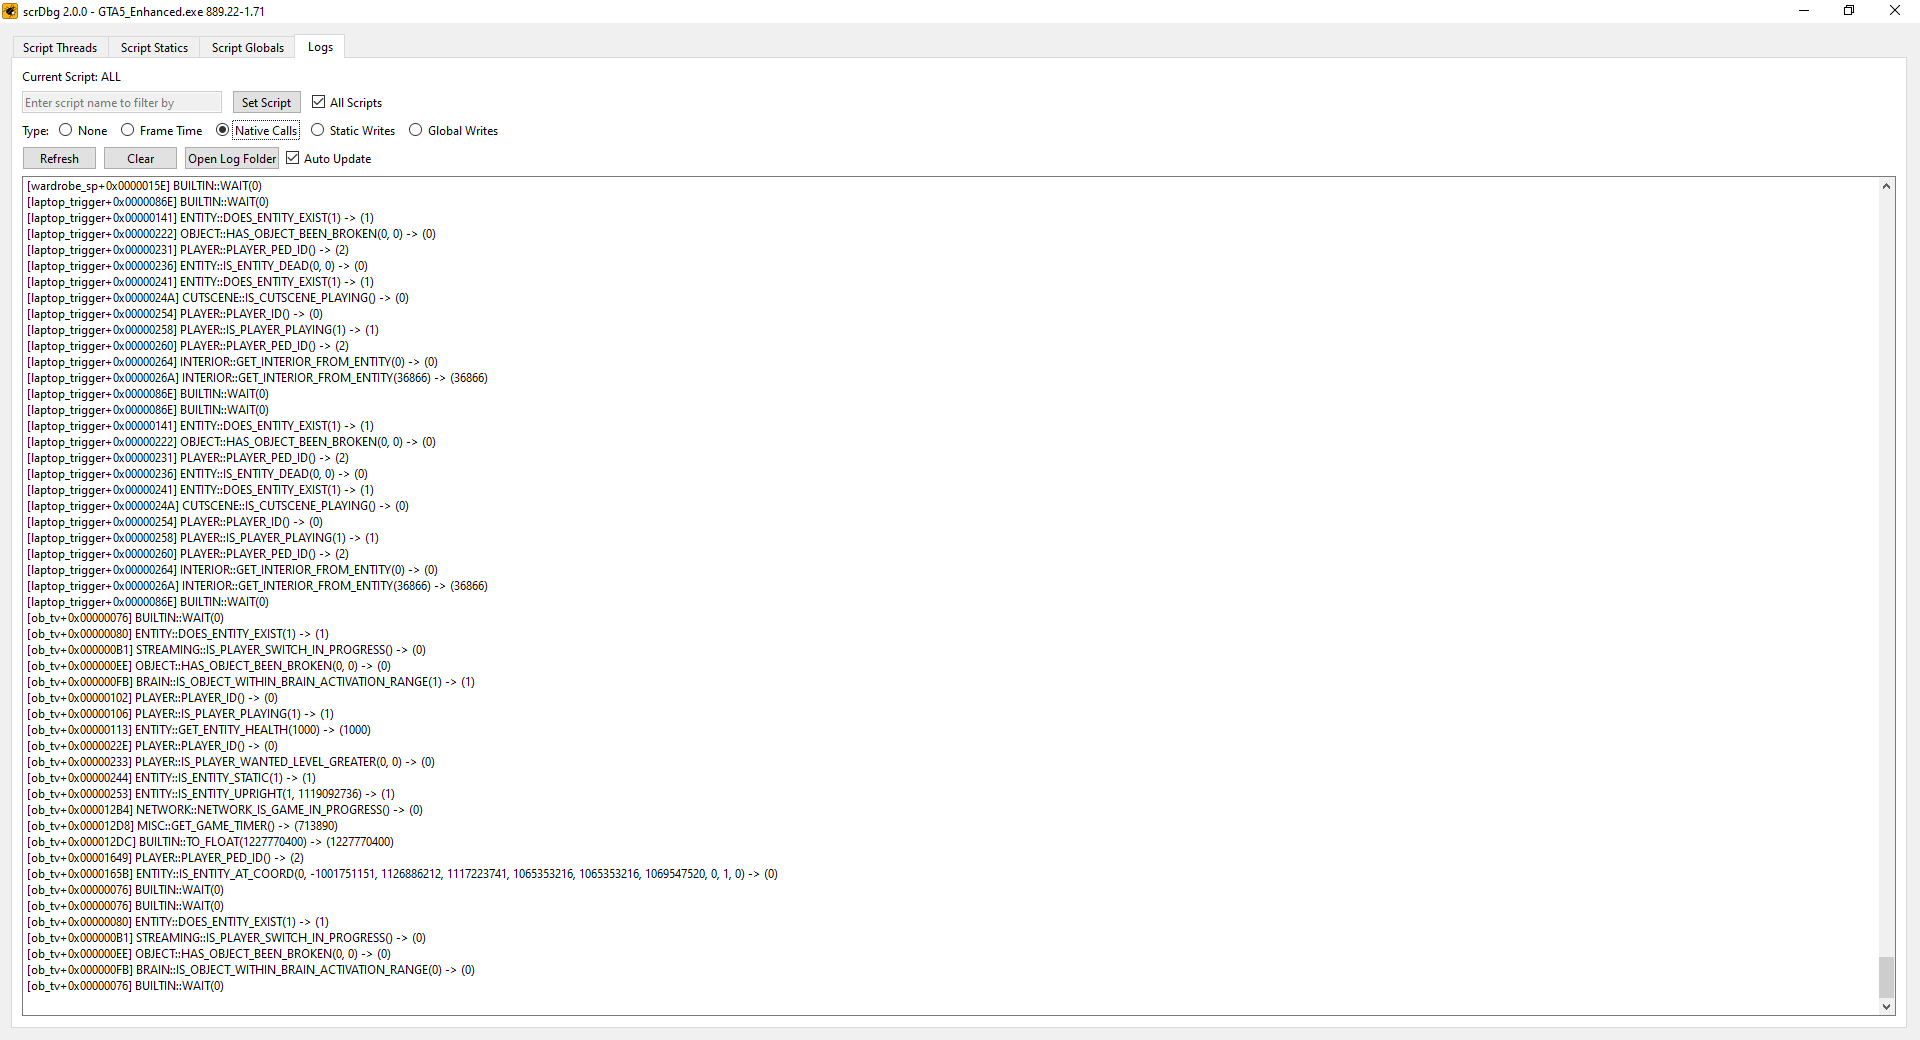
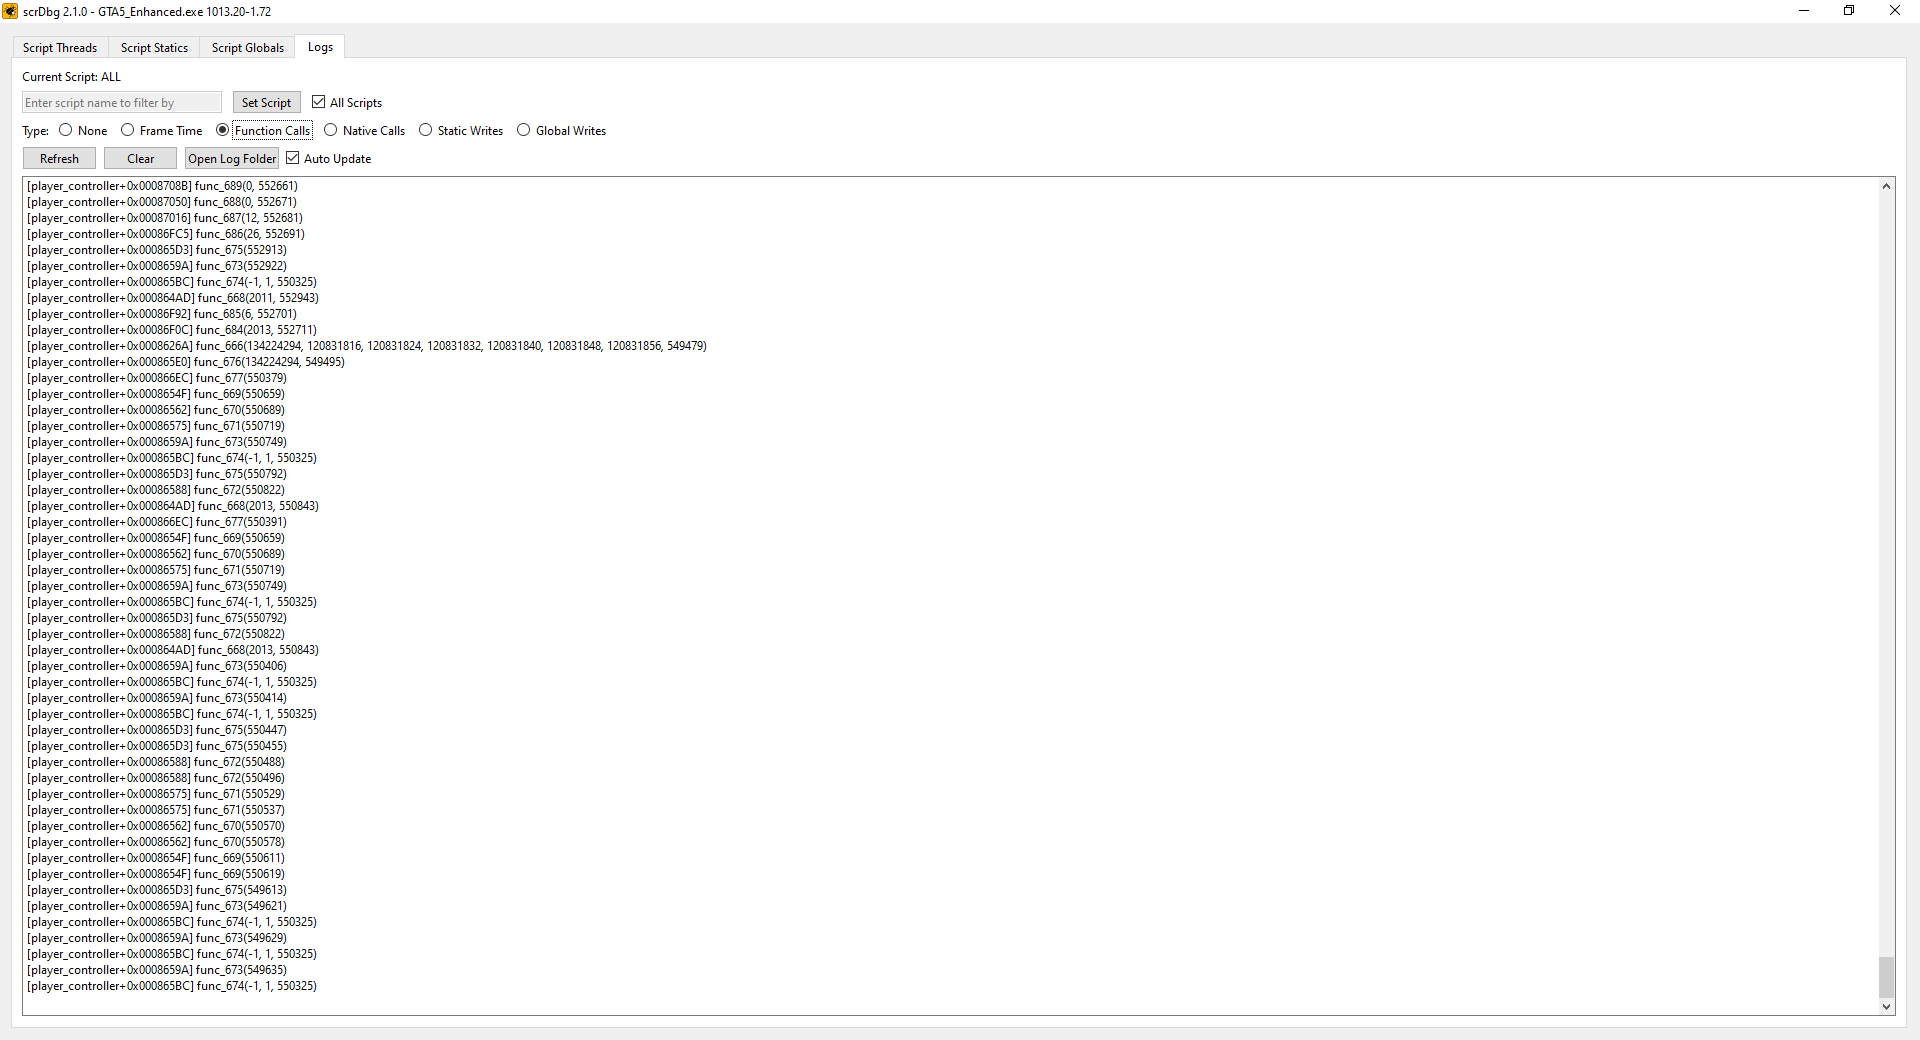
chore: bump version and update screenshots

Changed region(s): [[0.0, 0.1231, 0.4062, 0.9538], [0.2812, 0.1231, 0.3125, 0.1538]]

diff --git a/src/shared/scrDbg.h b/src/shared/scrDbg.h
@@ -5,7 +5,7 @@
 #define SCRDBG_FILEVERSION 2, 0, 0, 0
 #define SCRDBG_PRODUCTVERSION SCRDBG_FILEVERSION
 
-#define SCRDBG_FILE_VERSION "2.0.0"
+#define SCRDBG_FILE_VERSION "2.1.0"
 #define SCRDBG_PRODUCT_VERSION SCRDBG_FILE_VERSION
 
 #define SCRDBG_APP_FILE_DESCRIPTION "scrDbgApp"

diff --git a/README.md b/README.md
@@ -15,7 +15,7 @@ It allows you to inspect, manipulate, and debug game scripts in real-time.
 - Export disassembly, strings, statics, globals, and natives
 - View stack
   - View callstack
-  - Edit function arguments and locals
+  - Edit stack frame (function args, locals, temps)
 - View disassembly
   - Jump to a raw address
   - Binary search (pattern, hex, decimal, float, string)
@@ -26,6 +26,7 @@ It allows you to inspect, manipulate, and debug game scripts in real-time.
   - Set breakpoints
 - Logging
   - Log script frame times
+  - Log function calls
   - Log native calls
   - Log static and global writes
 - Statics editor
@@ -84,6 +85,10 @@ It allows you to inspect, manipulate, and debug game scripts in real-time.
   <img src="screenshots/scrDbgScreenshot12.png" alt="Screenshot 12" width="400"/>
 </p>
 
+<p align="center">
+  <img src="screenshots/scrDbgScreenshot13.png" alt="Screenshot 13" width="400"/>
+</p>
+
 </details>
 
 ## Usage
@@ -107,4 +112,4 @@ Once you have these installed, you can simply clone the repository, open it in V
 
 ## Credits
 - [maybegreat48](https://github.com/maybegreat48) for [External](https://github.com/maybegreat48/External).
-- TheOldOne for logo design.
+- [OldAgario](https://github.com/OldAgario) for logo design.
